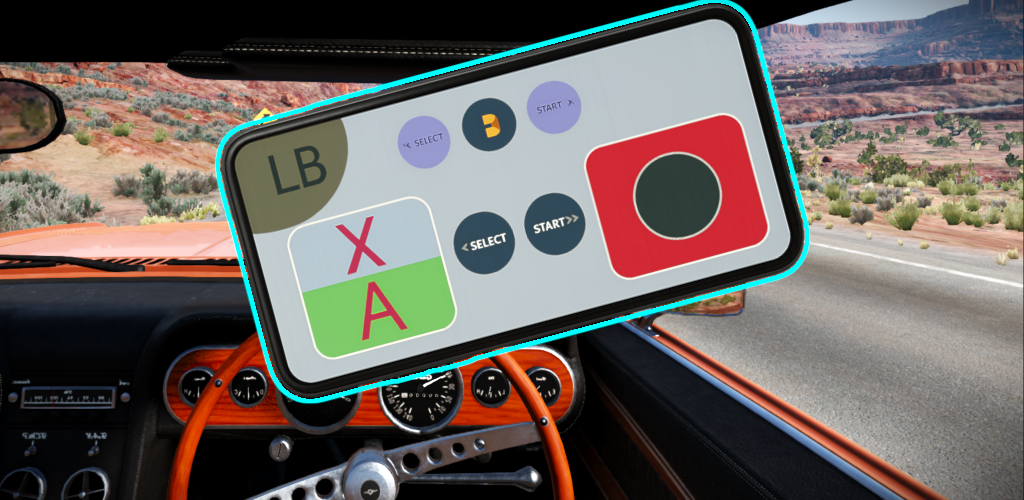
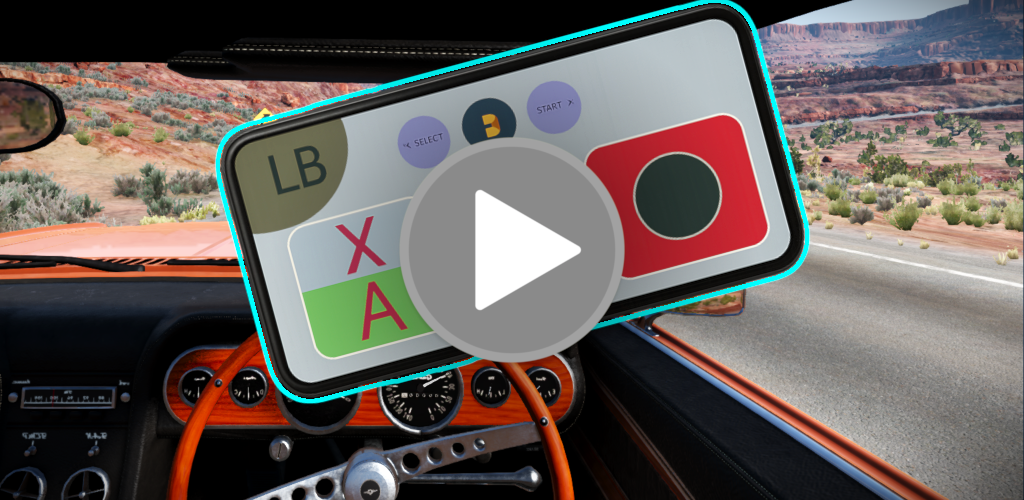
Updated Video

Changed region(s): [[0.3125, 0.12, 0.6875, 0.87]]

diff --git a/README.MD b/README.MD
@@ -5,7 +5,7 @@ An open-source analog based joystick project that uses the smartphone as a steer
 [![name](https://raw.githubusercontent.com/Suundumused/Motion-Joystick-Steering-Wheel/refs/heads/main/Assets/Google_Play_Store_badge_EN.png)
 ](https://play.google.com/store/apps/details?id=com.caiosilva.gravityjoystick&pcampaignid=web_share)
 ---
-![111](https://raw.githubusercontent.com/Suundumused/Motion-Joystick-Steering-Wheel/refs/heads/main/Assets/Uxntitled.png)
+[![111](https://raw.githubusercontent.com/Suundumused/Motion-Joystick-Steering-Wheel/refs/heads/main/Assets/Uxntitled.png)](https://youtu.be/I_cfgBini-g?si=tUS9wcpPD4CaT_fZ)
 ---
 Connection is made only by Wi-Fi, using the UDP protocol (with packet loss management) for low latency, the receiver in Windows creates a Virtual Joystick with the profile of the Xbox 360 controller where it receives packets from the smartphone connected to the same network.
 
